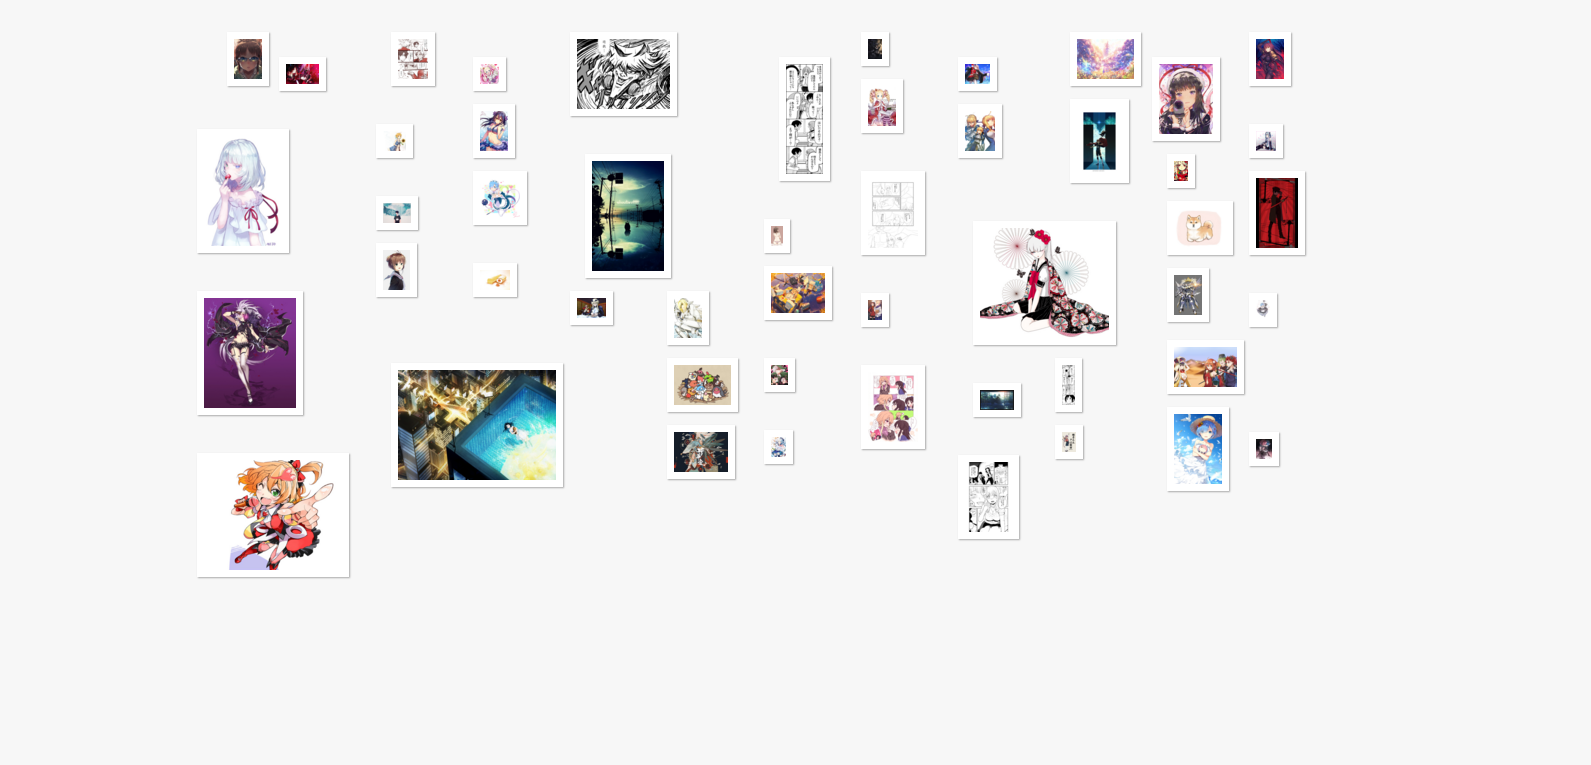
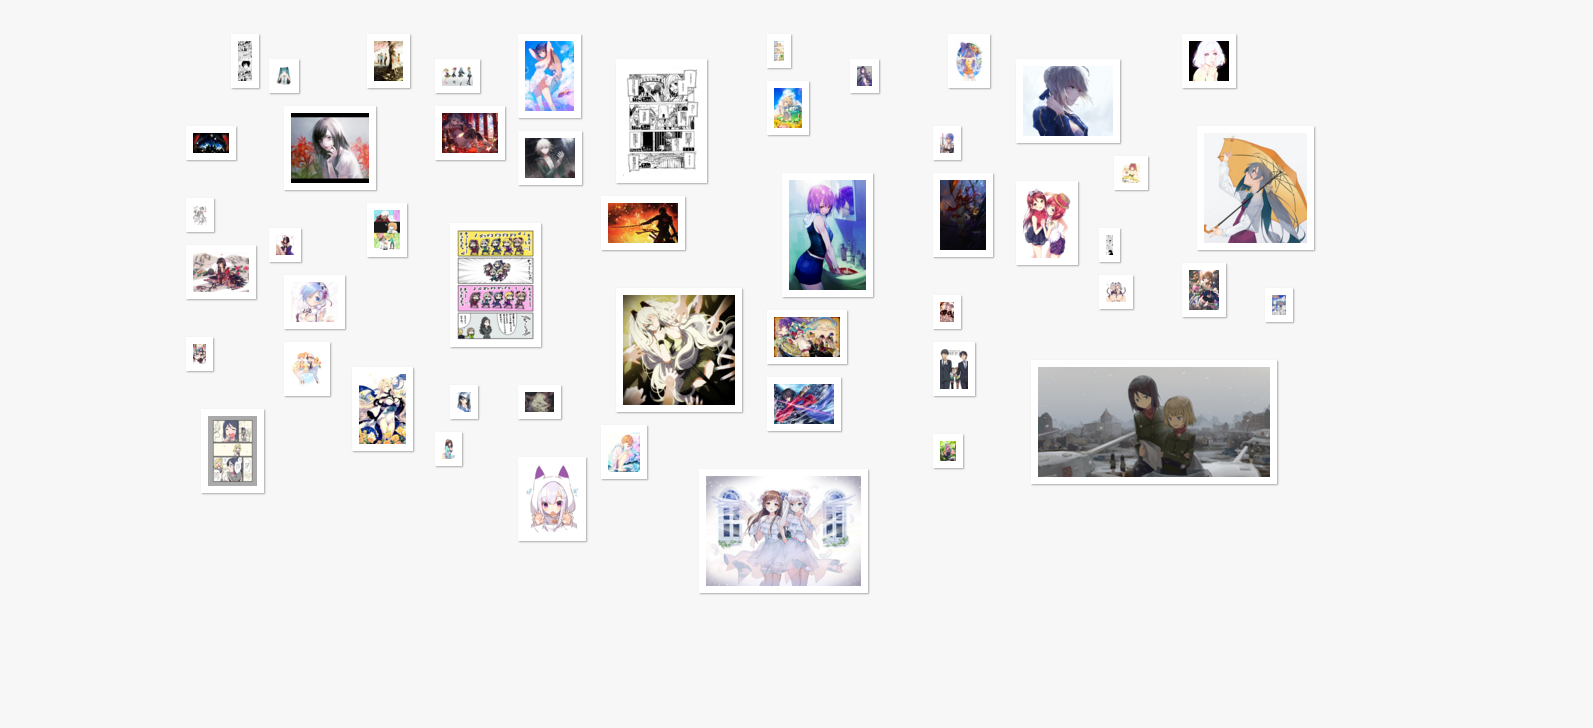
更新后台数据接口，所有数据全部来源p站原生数据

Changed region(s): [[0.1232, 0.0302, 0.8316, 0.8159], [0.5852, 0.4231, 0.616, 0.4533]]

diff --git a/index.html b/index.html
@@ -46,7 +46,7 @@
        //    for(var i=0;i<data.length;i++){
          	document.getElementsByTagName("img")[i].src=data[i].img_src;    
          	document.getElementsByTagName("div")[i+2].getElementsByTagName("h2")[0].innerHTML=data[i].img_no+"."+data[i].img_title;
-           	document.getElementsByTagName("div")[i+2].getElementsByTagName("p")[0].innerHTML="<a style='color:white' target='_blank' href="+data[i].img_link+">"+data[i].img_link+"</a>";
+           	document.getElementsByTagName("div")[i+2].getElementsByTagName("p")[0].innerHTML=data[i].img_painter+"<br><a style='color:white' target='_blank' href="+data[i].img_link+">"+data[i].img_link+"</a>";
          }
         }
     }); 
